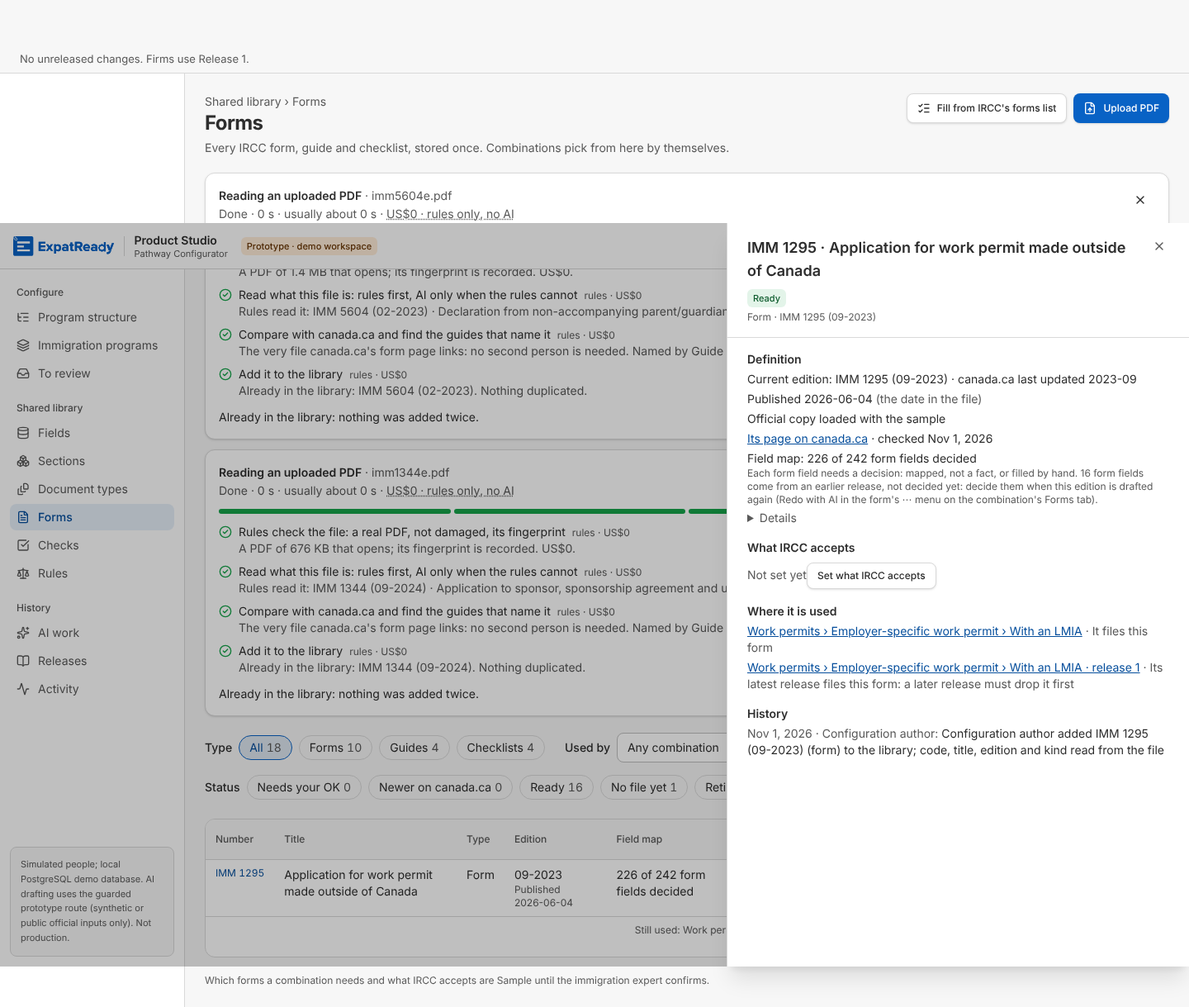
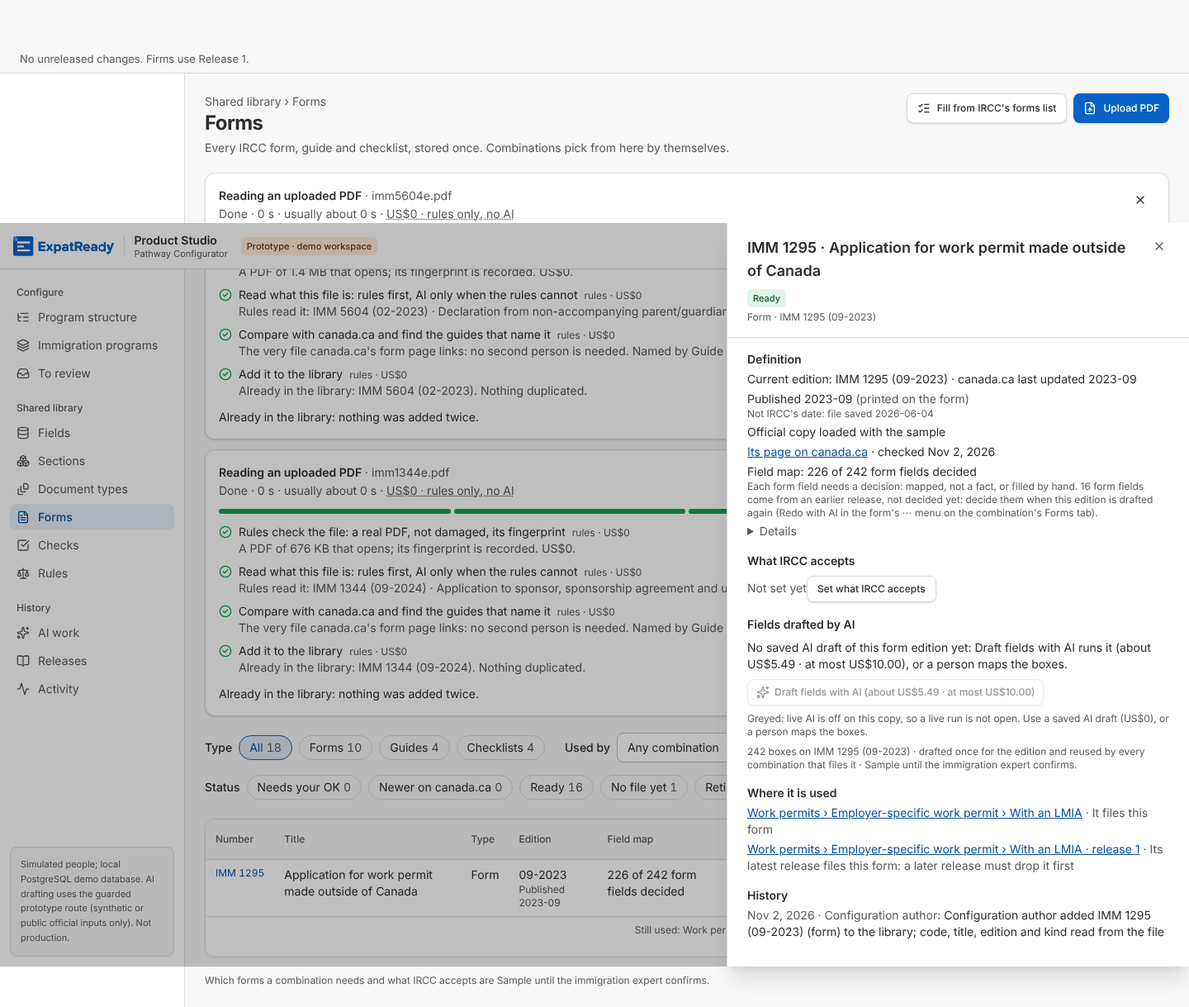
screens: C3.12 K3 (QA-148) — Published is IRCC's month (printed on the form, else canada.ca's Last updated), never the PDF file's own date; the file's date is kept apart as File saved
Pack C3.12 17/17 (was 16/17: AT-3). Reuses engine/library-index.ts fileMonth, the rule the library already uses for newer on canada.ca.

Claude-Session: https://claude.ai/code/session_01MXNda7yyFHSkoHSRv6cnhK

Changed region(s): [[0.625, 0.3741, 0.9688, 0.9352], [0.5, 0.8105, 0.5938, 0.904], [0.4375, 0.8105, 0.4688, 0.904]]

diff --git a/ai-workers/problem-1-pathway-setup-and-form-filling/prototype/studio/tests/check_forms_c312_field_map.ts b/ai-workers/problem-1-pathway-setup-and-form-filling/prototype/studio/tests/check_forms_c312_field_map.ts
@@ -3,15 +3,17 @@
 // checklist "No field map", a form with no usable edition "No edition yet". The pure rule (contracts/form-library.ts
 // fieldMapState) with a pass and a fail per rule, then the API on the sample against the database's own rows. US$0 (one
 // saved AI answer replayed, no model call).
-// C3.12 published date (FormEdition.published, migration 20261101150000): each edition shows the date its own file says it
-// was published (not the printed edition), a file with no date says so, an older edition keeps its own date, and editions
-// made before the column are read once and kept. A pass and a fail per rule, against the database's own column.
+// C3.12 dates. K3 (QA-148, AGENTS rule 4): "Published" is IRCC's month for the edition, printed on the form, else its
+// canada.ca page's Last updated (engine/library-index.ts fileMonth), never the PDF's own date. The file's own date
+// (FormEdition.published, migration 20261101150000, #313) is kept and shown apart as "File saved": a file with no date
+// says so, an older edition keeps its own, and editions made before the column are read once and kept. A pass and a fail
+// per rule, against the database's own column.
 //   zsh studio/tools/isolated.sh forms_c312 4450 start && tsx studio/tests/check_forms_c312_field_map.ts 4450 xr_studio_forms_c312
 import { execFileSync, execSync } from "node:child_process";
 import { mkdirSync, readFileSync, rmSync } from "node:fs";
 import { join } from "node:path";
 import { fieldMapState } from "../contracts/form-library.ts";
-import { publishedOf } from "../engine/published-date.ts";
+import { ircPublished, publishedOf } from "../engine/published-date.ts";
 
 const PORT = Number(process.argv[2] ?? 4450), DB = process.argv[3] ?? "xr_studio_forms_c312";
 let pass = 0, fail = 0;
@@ -61,6 +63,10 @@ type Row = { code: string; type: string; edition: string | null; field_map: Fm }
   ok("C3.12 break M2 fail: a file that could not be read ('?') says 'unreadable'", publishedOf("?").published_state === "unreadable");
   ok("C3.12 published rule pass: a PDF that names no date ('') says 'none'", publishedOf("").published_state === "none");
   ok("C3.12 break m1 fail: impossible or far dates are never shown (2023-02-30, 0000-00-00, 2099-12-31)", ["2023-02-30", "0000-00-00", "2099-12-31", "9999-13-99"].every((v) => publishedOf(v).published === null));
+  ok("C3.12 K3 rule pass: the month printed on the form is IRCC's published month", JSON.stringify(ircPublished({ editionLabel: "IMM 5476 (11-2025)", canadaUpdated: "2025-11" })) === JSON.stringify({ published: "2025-11", published_from: "printed", published_state: "date" }));
+  ok("C3.12 K3 rule pass: with no month printed in the label, canada.ca's Last updated month is used and named as such", JSON.stringify(ircPublished({ editionLabel: "IMM 5802", canadaUpdated: "2024-03" })) === JSON.stringify({ published: "2024-03", published_from: "canada_page", published_state: "date" }));
+  ok("C3.12 K3 rule fail: a page edited later never makes an old file read as new (printed 05-2021 wins over a 2025-09 page)", ircPublished({ editionLabel: "IMM 5475 (05-2021)", canadaUpdated: "2025-09" }).published === "2021-05");
+  ok("C3.12 K3 rule fail: with neither, nothing is guessed (none)", JSON.stringify(ircPublished({ editionLabel: "Guide 5256 (read 2026-11-02)", canadaUpdated: null })) === JSON.stringify({ published: null, published_from: null, published_state: "none" }));
 
   // ── the API on the sample (US$0)
   await call("POST", "/demo/reset", { confirm: "RESET" });
@@ -112,48 +118,55 @@ type Row = { code: string; type: string; edition: string | null; field_map: Fm }
     }
   }
 
-  // ── C3.12 published date: the date the file says it was published (FormEdition.published), US$0 (rules, no AI)
-  type Pub = Row & { published: string | null; published_state: string; older_editions: { label: string; published: string | null; published_state: string }[] };
+  // ── C3.12 the file's own date (FormEdition.published, #313), now shown apart as "File saved" (K3, QA-148), US$0
+  type Pub = Row & { published: string | null; published_from: string | null; published_state: string; file_date: string | null; file_date_state: string; older_editions: { label: string; published: string | null; published_from: string | null; file_date: string | null; file_date_state: string }[] };
   const pubRows = async () => (await call("GET", "/library/forms/list")).body.rows as Pub[];
   let pr = await pubRows();
   const r1295 = pr.find((r) => r.code === "IMM 1295")!, r5707 = pr.find((r) => r.code === "IMM 5707")!;
-  ok("C3.12 published pass: a sample form shows the date its file gives (IMM 1295: 2026-06-04), the same as the column", r1295.published === "2026-06-04" && sql("select published from form_edition where edition_label = 'IMM 1295 (09-2023)'") === "2026-06-04", r1295.published);
-  ok("C3.12 published fail: the published date is not the printed edition (IMM 5707 is edition 01-2023, published 2025-04-11)", r5707.edition === "IMM 5707 (01-2023)" && r5707.published === "2025-04-11", [r5707.edition, r5707.published]);
-  ok("C3.12 published pass: every form edition made before the column was read once and kept (no row left unread)", sql("select count(*) from form_edition where published is null and channel = 'PDF'") === "0");
-  ok("C3.12 published fail: a guide with no date in its page is kept as read with no date (''), shown as none", sql("select count(*) from form_edition e join gov_form_def d on d.id = e.gov_form_def_id where d.form_kind = 'guide' and e.published = ''") !== "0" && pr.filter((r) => r.type === "guide").every((r) => r.published === null));
+  // K3 (QA-148; pack C3.12 AT-3; AGENTS rule 4): "Published" is IRCC's month, printed on the form, else canada.ca's page.
+  ok("C3.12 K3 pass: Published is the month printed on the form (IMM 1295 (09-2023): 2023-09, printed), never its file's date", r1295.published === "2023-09" && r1295.published_from === "printed" && r1295.file_date === "2026-06-04", [r1295.published, r1295.published_from, r1295.file_date]);
+  ok("C3.12 K3 fail: a file saved long after its edition (IMM 5707: 2025-04-11) never reads as published then", r5707.published === "2023-01" && r5707.published !== r5707.file_date?.slice(0, 7), [r5707.published, r5707.file_date]);
+  const chk = pr.find((r) => r.code === "IMM 5488")!;
+  ok("C3.12 K3 pass: a checklist whose canada.ca copy has no Last updated still shows its printed edition month (IMM 5488: 2024-10)", chk.published === "2024-10" && chk.published_from === "printed", [chk.published, chk.published_from]);
+  ok("C3.12 K3 pass: every dated form and checklist row has an IRCC month; no guide claims one", pr.filter((r) => r.type !== "guide" && r.edition).every((r) => /^\d{4}-\d{2}$/.test(r.published ?? "")) && pr.filter((r) => r.type === "guide").every((r) => r.published === null), pr.filter((r) => r.type !== "guide" && r.edition && !r.published).map((r) => r.code));
+  ok("C3.12 file date pass: a sample form keeps the date its file gives (IMM 1295: 2026-06-04), the same as the column", r1295.file_date === "2026-06-04" && sql("select published from form_edition where edition_label = 'IMM 1295 (09-2023)'") === "2026-06-04", r1295.file_date);
+  ok("C3.12 file date fail: the file's date is not the printed edition (IMM 5707 is edition 01-2023, file saved 2025-04-11)", r5707.edition === "IMM 5707 (01-2023)" && r5707.file_date === "2025-04-11", [r5707.edition, r5707.file_date]);
+  ok("C3.12 file date pass: every form edition made before the column was read once and kept (no row left unread)", sql("select count(*) from form_edition where published is null and channel = 'PDF'") === "0");
+  ok("C3.12 file date fail: a guide with no date in its page is kept as read with no date (''), shown as none", sql("select count(*) from form_edition e join gov_form_def d on d.id = e.gov_form_def_id where d.form_kind = 'guide' and e.published = ''") !== "0" && pr.filter((r) => r.type === "guide").every((r) => r.file_date === null && r.published === null));
   // An uploaded PDF (door 2, the intake): its date is set when it is added, from the reader that already read its identity.
   const IRCC = join(import.meta.dirname, "..", "..", "..", "official-sources", "ircc");
   const fd = new FormData(); fd.append("files", new Blob([new Uint8Array(readFileSync(join(IRCC, "forms", "imm5604e.pdf")))], { type: "application/pdf" }), "imm5604e.pdf");
   const up = await (await fetch(`http://localhost:${PORT}/api/intake`, { method: "POST", headers: { "x-actor": "user-A" }, body: fd })).json() as { results?: { outcome: string; edition: string | null }[] };
   const added = up.results?.[0];
-  ok("C3.12 published pass: an uploaded PDF keeps the date its file gives the moment it is added (IMM 5604: 2023-02-27)", !!added?.edition && sql(`select published from form_edition where edition_label = '${added.edition}'`) === "2023-02-27", { added, col: added?.edition ? sql(`select coalesce(published, 'NULL') from form_edition where edition_label = '${added.edition}'`) : null });
+  ok("C3.12 file date pass: an uploaded PDF keeps the date its file gives the moment it is added (IMM 5604: 2023-02-27)", !!added?.edition && sql(`select published from form_edition where edition_label = '${added.edition}'`) === "2023-02-27", { added, col: added?.edition ? sql(`select coalesce(published, 'NULL') from form_edition where edition_label = '${added.edition}'`) : null });
   pr = await pubRows();
-  ok("C3.12 published pass: the Forms list shows the uploaded form's date", pr.find((r) => r.code === "IMM 5604")?.published === "2023-02-27", pr.find((r) => r.code === "IMM 5604"));
+  ok("C3.12 file date pass: the Forms list shows the uploaded form's date", pr.find((r) => r.code === "IMM 5604")?.file_date === "2023-02-27", pr.find((r) => r.code === "IMM 5604"));
   // A file that names no date: kept as '' (read), shown as none, and not read again on the next list.
   sql("update form_edition set published = '' where edition_label = 'IMM 5409 (01-2023)'");
   pr = await pubRows();
-  ok("C3.12 published pass: a file that names no date is shown as none (the page says 'Date not in the file')", pr.find((r) => r.code === "IMM 5409")?.published === null, pr.find((r) => r.code === "IMM 5409")?.published);
-  ok("C3.12 published fail: a file read once with no date is not read again on every list (stays '')", sql("select published from form_edition where edition_label = 'IMM 5409 (01-2023)'") === "");
+  ok("C3.12 file date pass: a file that names no date is shown as none (the page says 'Date not in the file')", pr.find((r) => r.code === "IMM 5409")?.file_date === null, pr.find((r) => r.code === "IMM 5409")?.file_date);
+  ok("C3.12 file date fail: a file read once with no date is not read again on every list (stays '')", sql("select published from form_edition where edition_label = 'IMM 5409 (01-2023)'") === "");
   sql("update form_edition set published = 'not a date' where edition_label = 'IMM 5475 (05-2021)'");
-  ok("C3.12 published fail: anything but a YYYY-MM-DD date is never shown as a date", (await pubRows()).find((r) => r.code === "IMM 5475")?.published === null);
+  ok("C3.12 file date fail: anything but a YYYY-MM-DD date is never shown as a date", (await pubRows()).find((r) => r.code === "IMM 5475")?.file_date === null);
   sql("update form_edition set published = '9999-13-99' where edition_label = 'IMM 5475 (05-2021)'");
-  ok("C3.12 break m1 fail: an impossible date (9999-13-99) from a file's clock is never shown as a date", (await pubRows()).find((r) => r.code === "IMM 5475")?.published === null);
+  ok("C3.12 break m1 fail: an impossible date (9999-13-99) from a file's clock is never shown as a date", (await pubRows()).find((r) => r.code === "IMM 5475")?.file_date === null);
   sql("update form_edition set published = '?' where edition_label = 'IMM 5475 (05-2021)'");
   const unreadable = (await pubRows()).find((r) => r.code === "IMM 5475")!;
-  ok("C3.12 break M2 fail: a file that could not be read says so ('unreadable'), never 'no date in the file'", unreadable.published === null && unreadable.published_state === "unreadable" && sql("select published from form_edition where edition_label = 'IMM 5475 (05-2021)'") === "?", unreadable.published_state);
-  ok("C3.12 break M2 pass: a file with no date says 'none', one with a date 'date'", pr.find((r) => r.code === "IMM 5409")?.published_state === "none" && pr.find((r) => r.code === "IMM 1295")?.published_state === "date");
+  ok("C3.12 break M2 fail: a file that could not be read says so ('unreadable'), never 'no date in the file'", unreadable.file_date === null && unreadable.file_date_state === "unreadable" && sql("select published from form_edition where edition_label = 'IMM 5475 (05-2021)'") === "?", unreadable.file_date_state);
+  ok("C3.12 break M2 pass: a file with no date says 'none', one with a date 'date'", pr.find((r) => r.code === "IMM 5409")?.file_date_state === "none" && pr.find((r) => r.code === "IMM 1295")?.file_date_state === "date");
   // An older edition keeps its own date (test input: IMM 5257's committed previous edition joins as an earlier edition,
   // unread, the way rows made before the column are).
   const ws = sql("select workspace_id from form_edition where edition_label = 'IMM 5257 (09-2023)'"), def = sql("select gov_form_def_id from form_edition where edition_label = 'IMM 5257 (09-2023)'");
[1 lines of base64/hex data omitted]
   pr = await pubRows();
   const v = pr.find((r) => r.code === "IMM 5257")!, older = v.older_editions.find((e) => e.label === "IMM 5257 (06-2018)");
-  ok("C3.12 published pass: an older edition shows its own file's date (IMM 5257 (06-2018): 2019-04-18), read once and kept", older?.published === "2019-04-18" && sql("select published from form_edition where edition_label = 'IMM 5257 (06-2018)'") === "2019-04-18", v.older_editions);
-  ok("C3.12 published fail: the current edition keeps its own date, not the older one's", v.edition === "IMM 5257 (09-2023)" && v.published === "2026-06-04", [v.edition, v.published]);
+  ok("C3.12 file date pass: an older edition shows its own file's date (IMM 5257 (06-2018): 2019-04-18), read once and kept", older?.file_date === "2019-04-18" && sql("select published from form_edition where edition_label = 'IMM 5257 (06-2018)'") === "2019-04-18", v.older_editions);
+  ok("C3.12 K3 pass: an older edition shows its own printed month as published (IMM 5257 (06-2018): 2018-06), not its file's date", older?.published === "2018-06" && older?.published_from === "printed", older);
+  ok("C3.12 file date fail: the current edition keeps its own date, not the older one's", v.edition === "IMM 5257 (09-2023)" && v.file_date === "2026-06-04", [v.edition, v.file_date]);
   // A file not on disk is left unread (null), never marked as having no date.
   sql(`insert into form_edition (id, workspace_id, gov_form_def_id, edition_label, stored_path) values (gen_random_uuid(), '${ws}', '${def}', 'IMM 5257 (01-2017)', 'var/nowhere/missing.pdf')`);
   await pubRows();
-  ok("C3.12 published fail: a file missing from disk stays unread (null, tried again later), never '' (no date)", sql("select coalesce(published, 'NULL') from form_edition where edition_label = 'IMM 5257 (01-2017)'") === "NULL");
+  ok("C3.12 file date fail: a file missing from disk stays unread (null, tried again later), never '' (no date)", sql("select coalesce(published, 'NULL') from form_edition where edition_label = 'IMM 5257 (01-2017)'") === "NULL");
   // Break M1: a stored file that never answers (a pipe) is not read at all, the list answers at once, and the other
   // unread files are still read (test input: a FIFO under this copy's own var folder, and an unread edition beside it).
   const fifoDir = join(import.meta.dirname, "..", "var", "c312-fifo"); rmSync(fifoDir, { recursive: true, force: true }); mkdirSync(fifoDir, { recursive: true });

diff --git a/ai-workers/problem-1-pathway-setup-and-form-filling/prototype/studio/web/src/pages/library-forms.tsx b/ai-workers/problem-1-pathway-setup-and-form-filling/prototype/studio/web/src/pages/library-forms.tsx
@@ -22,13 +22,13 @@ import { ACTION_LABEL, RETURNED_LABEL, SAY, TIP, WAITING_LABEL, WHY } from "../.
 import { Skeleton } from "@/components/ui/skeleton";
 import type { FieldMapState } from "../../../contracts/form-library";
 
-type Row = { code: string; title: string; type: "form" | "guide" | "checklist"; edition: string | null; /** C3.12: the date the file says it was published (not the printed edition); null when it names none. */ published?: string | null; published_state?: PublishedState; canada_updated: string | null; accepts: string | null; accepts_basis: string | null; accepts_quote: string | null; accepts_waiting: boolean;
+type Row = { code: string; title: string; type: "form" | "guide" | "checklist"; edition: string | null; /** C3.12 (K3, QA-148): IRCC's month for the edition, printed on it, else its canada.ca page; never the file's date. */ published?: string | null; published_from?: "printed" | "canada_page" | null; published_state?: "date" | "none"; /** The PDF's own date (#313), shown apart as "File saved". */ file_date?: string | null; file_date_state?: FileDateState; canada_updated: string | null; accepts: string | null; accepts_basis: string | null; accepts_quote: string | null; accepts_waiting: boolean;
   /** C3.12: the field map of its current edition (contracts/form-library.ts fieldMapState). */
   field_map: FieldMapState;
   /** P-143 (C-3): one record per IRCC account (ANY: every account), each with its basis and IRCC's line. */
   accepts_accounts?: { account: string; account_words: string; channels: string[]; words: string; basis: string; quote: string | null; source_url: string | null }[];
   origin: string | null; downloaded_from: string | null; checked_at: string | null; form_page_url: string | null; fingerprint: string | null; attachment_id: string | null;
-  used_by: { id: string; label: string; picked_by_ai: boolean; as_source?: boolean }[]; status: "ready" | "needs_ok" | "newer_file" | "no_file" | "retired"; listed_by_ircc?: boolean; newer_on_index?: boolean; lifecycle_waiting: "DELETE" | "RETIRE" | "RESTORE" | null; lifecycle_approved?: boolean; lifecycle_returned?: boolean; older_editions: { label: string; published?: string | null; published_state?: PublishedState; kept_by: string }[]; action: { kind: "DELETE" | "RETIRE" | "RESTORE" | "WITHDRAW"; why: string | null; change_id: string | null } };
+  used_by: { id: string; label: string; picked_by_ai: boolean; as_source?: boolean }[]; status: "ready" | "needs_ok" | "newer_file" | "no_file" | "retired"; listed_by_ircc?: boolean; newer_on_index?: boolean; lifecycle_waiting: "DELETE" | "RETIRE" | "RESTORE" | null; lifecycle_approved?: boolean; lifecycle_returned?: boolean; older_editions: { label: string; published?: string | null; published_from?: "printed" | "canada_page" | null; published_state?: "date" | "none"; file_date?: string | null; file_date_state?: FileDateState; kept_by: string }[]; action: { kind: "DELETE" | "RETIRE" | "RESTORE" | "WITHDRAW"; why: string | null; change_id: string | null } };
 type List = { rows: Row[]; counts: Record<string, number>; combinations: { id: string; label: string }[]; sample_note: string; remembered_deletions?: { code: string; deleted_by: string; deleted_at: string }[] };
 export type Uses = { label: string; released: boolean; retired: boolean; uses: { kind: string; label: string; href: string | null; blocks: boolean; why: string }[]; can: { delete: string | null; retire: string | null; restore: string | null }; pending: { id: string; action: string; by: string | null } | null; history: { at: string; by: string | null; what: string }[] };
 
@@ -43,13 +43,17 @@ const BASIS: Record<string, { tag: string; tip: string }> = {
   FOUNDER_SAMPLE: { tag: "Founder P-171 · Sample", tip: "The founder's answer where IRCC's pages say nothing (P-171). No IRCC line to quote. Sample until the immigration expert confirms." },
 };
 /** A guide's date is canada.ca's own "Date modified" when the page prints one; otherwise when the studio read it. */
-/** C3.12: a form edition's published date in words: the date the file itself gives, never the printed edition. Break
- *  (456fb7d0) M2: a file not read yet, or one that could not be read, is said as such, never as "no date in the file". */
-type PublishedState = "date" | "none" | "unread" | "unreadable";
-const NO_DATE: Record<PublishedState, string> = { date: "", none: "Date not in the file", unread: "Date not read yet", unreadable: "Date could not be read from the file" };
-const publishedText = (d: string | null | undefined, s: PublishedState | undefined) => (d ? `Published ${d}` : NO_DATE[s ?? "none"] || NO_DATE.none);
-/** Review m1: the date itself never breaks at its hyphens ("2026-" / "06-04"); the words around it may wrap. */
-const PublishedLine = ({ d, s }: { d: string | null | undefined; s: PublishedState | undefined }) => (d ? <>Published <span className="whitespace-nowrap" data-published-date>{d}</span></> : <>{publishedText(d, s)}</>);
+/** C3.12 (K3, QA-148): "Published" is IRCC's month for the edition: printed on the form, else its canada.ca page's "Last
+ *  updated" (AGENTS rule 4), never the PDF file's own date; with neither, it says so and never guesses. */
+const NO_PUBLISHED = "No edition date printed on it or on canada.ca";
+const publishedText = (d: string | null | undefined) => (d ? `Published ${d}` : NO_PUBLISHED);
+const FROM: Record<"printed" | "canada_page", string> = { printed: "printed on the form", canada_page: "canada.ca page, Last updated" };
+/** Review m1: the date itself never breaks at its hyphens; the words around it may wrap. */
+const PublishedLine = ({ d }: { d: string | null | undefined }) => (d ? <>Published <span className="whitespace-nowrap" data-published-date>{d}</span></> : <>{publishedText(d)}</>);
+/** The PDF file's own date (#313; break 456fb7d0 M2: not read yet or unreadable is said as such, never as "no date"). */
+type FileDateState = "date" | "none" | "unread" | "unreadable";
+const FILE_NO_DATE: Record<FileDateState, string> = { date: "", none: "the file names no date", unread: "the file's date is not read yet", unreadable: "the file's date could not be read" };
+const fileDateText = (d: string | null | undefined, s: FileDateState | undefined) => (d ? `file saved ${d}` : FILE_NO_DATE[s ?? "none"] || FILE_NO_DATE.none);
 const editionText = (r: Row) => (r.type === "guide" ? (r.canada_updated ? `Updated on canada.ca ${r.canada_updated}` : r.checked_at ? `Read from canada.ca on ${new Date(r.checked_at).toISOString().slice(0, 10)}` : "Date not known") : r.edition ? r.edition.replace(`${r.code} `, "").replace(/[()]/g, "") : null);
 const ACCEPTS_TIP = "What IRCC accepts for this form, for each IRCC account or for every account: Online, PDF upload, Paper, or Not needed (the account asks it itself; said for one account only). Guides and checklists are not filed: AI reads them. AI reads it from IRCC's page, the sample loads it with IRCC's own line from the page, or a person sets it with a second person's OK; Sample until the immigration expert confirms. Online filling needs the browser extension (later wave).";
 const STATUS: Record<Row["status"], { word: string; tone: string; tip: string }> = {
@@ -158,9 +162,9 @@ export function FormsPage() {
                 <tr data-form={r.code} tabIndex={-1} className={`focus-visible:outline-2! focus-visible:outline-solid! focus-visible:-outline-offset-2! focus-visible:outline-ring! ${r.status === "retired" ? "text-text-muted" : ""}`}>
                   <td className="whitespace-nowrap text-xs tabular-nums"><button type="button" className="rounded text-text-link underline-offset-2 hover:underline outline-none focus-visible:ring-[3px] focus-visible:ring-ring/50" onClick={() => setOpen(r)}>{r.code}</button></td>
                   <td className="min-w-32 max-w-56 break-words xl:max-w-80"><span className="line-clamp-2" title={r.title}>{r.title}</span>
-                    <span className="mt-0.5 block text-xs text-text-muted xl:hidden">{TYPE_WORD[r.type]} · {editionText(r) ?? "no usable edition yet"}{r.type !== "guide" && r.edition ? <span data-published-short> · <PublishedLine d={r.published} s={r.published_state} /></span> : null}{r.type === "form" && r.edition ? <> · <Tip tip={r.field_map.tip}><span tabIndex={0} data-field-map-short={r.field_map.kind} className="rounded outline-none focus-visible:ring-[3px] focus-visible:ring-ring/50">Field map: {r.field_map.words}</span></Tip></> : null}</span></td>
+                    <span className="mt-0.5 block text-xs text-text-muted xl:hidden">{TYPE_WORD[r.type]} · {editionText(r) ?? "no usable edition yet"}{r.type !== "guide" && r.edition ? <span data-published-short> · <PublishedLine d={r.published} /></span> : null}{r.type === "form" && r.edition ? <> · <Tip tip={r.field_map.tip}><span tabIndex={0} data-field-map-short={r.field_map.kind} className="rounded outline-none focus-visible:ring-[3px] focus-visible:ring-ring/50">Field map: {r.field_map.words}</span></Tip></> : null}</span></td>
                   <td className="hidden xl:table-cell">{TYPE_WORD[r.type]}</td>
-                  <td className="hidden xl:table-cell">{editionText(r) ?? <span className="text-text-muted">no usable edition yet</span>}{r.type !== "guide" && r.edition ? <span data-published className="block text-xs text-text-muted"><PublishedLine d={r.published} s={r.published_state} /></span> : null}</td>
+                  <td className="hidden xl:table-cell">{editionText(r) ?? <span className="text-text-muted">no usable edition yet</span>}{r.type !== "guide" && r.edition ? <span data-published className="block text-xs text-text-muted"><PublishedLine d={r.published} /></span> : null}</td>
                   <td className="hidden xl:table-cell"><FieldMapCell fm={r.field_map} /></td>
                   <td className="max-w-36 xl:max-w-none"><AcceptsCell r={r} /></td>
                   <td className="max-w-48 xl:max-w-72">{r.used_by.length === 0 ? <span className="text-text-muted">Not used</span> : r.used_by.length === 1 ? <TrailText label={r.used_by[0].label} /> : <Tip tip={r.used_by.map((u) => u.label).join(", ")}>{/* DV-d1-1 (N8): a count a person trusts at a glance: a plain link-style button (opens where it is used), never a dotted line that reads as struck through */}<button type="button" data-used-by-count className="rounded text-text-link underline-offset-2 hover:underline outline-none focus-visible:ring-[3px] focus-visible:ring-ring/50" onClick={() => setOpen(r)}>{r.used_by.length} combinations</button></Tip>}</td>
@@ -357,11 +361,11 @@ function FormDrawer({ row, onClose, canAuthor }: { row: Row; onClose: () => void
     <Panel open onOpenChange={(o) => !o && onClose()} title={`${row.code} · ${row.title}`} description={`${TYPE_WORD[row.type]}${row.edition ? ` · ${row.edition}` : ""}`} badge={<Pill tone={STATUS[row.status].tone}>{STATUS[row.status].word}</Pill>}>
       <section className="space-y-1 text-sm" aria-labelledby="fd-def"><h3 id="fd-def" className="font-semibold">Definition</h3>
         <p>{row.type === "guide" ? editionText(row) : <>Current edition: {row.edition ?? "none usable yet"}{row.canada_updated ? ` · canada.ca last updated ${row.canada_updated}` : ""}</>}</p>
-        {row.type !== "guide" && row.edition ? <p data-published-panel>{row.published ? <>Published {row.published} <span className="text-text-muted">(the date in the file)</span></> : <span className="text-text-muted">{publishedText(null, row.published_state)}</span>}</p> : null}
+        {row.type !== "guide" && row.edition ? <p data-published-panel>{row.published ? <>Published {row.published} <span className="text-text-muted">({FROM[row.published_from ?? "printed"]})</span></> : <span className="text-text-muted">{publishedText(null)}</span>}<span className="block text-xs text-text-muted" data-file-date>Not IRCC's date: {fileDateText(row.file_date, row.file_date_state)}</span></p> : null}
         <p>{row.type === "guide" ? "Read from its canada.ca page" : row.origin ? ORIGIN[row.origin] ?? row.origin : "Where it came from is not recorded"}{row.downloaded_from && row.type !== "guide" ? <> · <a className="text-text-link underline" href={row.downloaded_from} target="_blank" rel="noreferrer">PDF link</a></> : null}</p>
         {row.form_page_url ? <p><a className="text-text-link underline" href={row.form_page_url} target="_blank" rel="noreferrer">{/\.pdf$/i.test(row.form_page_url) ? "Its file on IRCC's site (no form page)" : "Its page on canada.ca"}</a>{/\.pdf$/i.test(row.form_page_url) ? null : <> · checked {when(row.checked_at)}</>}</p> : <p className="text-text-muted">No canada.ca page recorded yet.</p>}
         {row.type === "form" ? <p data-field-map-panel={row.field_map.kind}>Field map: {row.field_map.words}<span className="block text-xs text-text-muted">{row.field_map.tip}</span></p> : null}
-        {row.older_editions.map((e) => <p key={e.label} className="text-text-muted" data-kept-by><span className="font-medium text-text">Earlier edition {e.label.replace(`${row.code} `, "")}</span> · <span data-published-older>{e.published ? `published ${e.published}` : publishedText(null, e.published_state).replace(/^D/, "d")}</span> · {e.kept_by}</p>)}
+        {row.older_editions.map((e) => <p key={e.label} className="text-text-muted" data-kept-by><span className="font-medium text-text">Earlier edition {e.label.replace(`${row.code} `, "")}</span> · <span data-published-older>{e.published ? `published ${e.published}` : publishedText(null).replace(/^N/, "n")}</span> · {e.kept_by}</p>)}
         <details><summary className="cursor-pointer text-text-muted">Details</summary><p className="mono break-all text-xs">File fingerprint (SHA-256): {row.fingerprint ?? "none"}</p></details>
       </section>
       <section className="mt-4 space-y-2 text-sm" aria-labelledby="fd-acc"><h3 id="fd-acc" className="font-semibold">What IRCC accepts</h3>

diff --git a/ai-workers/problem-1-pathway-setup-and-form-filling/prototype/studio/api/src/form-library.ts b/ai-workers/problem-1-pathway-setup-and-form-filling/prototype/studio/api/src/form-library.ts
@@ -20,7 +20,8 @@ import { AcceptsBody, acceptsWords, AttachBody, fieldMapState, LibraryQuery, Lif
 import { CanadaError, canadaSource, type CanadaSource } from "./canada.ts";
 import { ACTORS, actorOf, Audit, ConfigRead, Db, need, readerOf, Workspace, type Actor } from "./core.ts";
 import { rowActionOf } from "./form-row-action.ts";
-import { fillPublished, publishedOf } from "./edition-published.ts";
+import { fillPublished } from "./edition-published.ts";
+import { fileDateOf, ircPublished } from "../../engine/published-date.ts";
 import { Finder } from "./finder.ts";
 import { Lifecycle } from "./lifecycle.ts";
 import { addFormLine } from "./form-lines.ts";
@@ -88,7 +89,7 @@ export class FormLibrary {
   async list(query: unknown, actorId?: string) {
     const q = parse(LibraryQuery, query);
     const workspaceId = await this.ws.id();
-    await fillPublished(this.db, workspaceId); // C3.12: editions not read yet, once (then kept); waits at most 3 s
+    await fillPublished(this.db, workspaceId); // C3.12: the file's own date ("File saved") for editions not read yet, once (then kept); waits at most 3 s
     const [forms, approved, held] = await Promise.all([
       this.db.govFormDef.findMany({ where: { workspaceId }, orderBy: { formKey: "asc" }, include: { editions: { include: { accepts: true } }, usedBy: { orderBy: { version: "desc" }, select: { combinationId: true, status: true, version: true, origin: true, combination: { select: { label: true } } } } } }),
       this.approvedShas(workspaceId),
@@ -129,13 +130,13 @@ export class FormLibrary {
       const month = current ? fileMonth(current) : null;
       const indexNewer = !!current && newerOnIndex(f.indexDateModified, month, current.indexDateSeenCurrent);
       const status = f.retiredAt ? "retired" : needsOk ? "needs_ok" : current?.newerFileSha256 || indexNewer ? "newer_file" : current ? "ready" : "no_file";
-      return { code: f.formKey, title: f.displayName, type: TYPE_OF(f.formKind, f.displayName), edition: current?.editionLabel ?? null, ...(current ? publishedOf(current.published) : { published: null, published_state: "unread" as const }), canada_updated: current?.canadaUpdated ?? null,
+      return { code: f.formKey, title: f.displayName, type: TYPE_OF(f.formKind, f.displayName), edition: current?.editionLabel ?? null, ...(current ? { ...ircPublished(current), ...fileDateOf(current.published) } : { published: null, published_from: null, published_state: "none" as const, file_date: null, file_date_state: "unread" as const }), canada_updated: current?.canadaUpdated ?? null,
         // P-143 (C-3): one record per IRCC account (ANY first); the column says them in words, one line per account.
         ...acceptsRow(current?.accepts ?? [], TYPE_OF(f.formKind, f.displayName) === "form"), accepts_waiting: waitingAccepts.has(f.formKey),
         field_map: fieldMapState(TYPE_OF(f.formKind, f.displayName), !!current, current ? effective(mapsOf.get(current.id) ?? [], (m) => m.dataPath, "draft") : [], current ? proposedOf.get(current.editionLabel) ?? 0 : 0),
         origin: current?.origin ?? (current?.officialFile ? "SAMPLE" : current ? "UPLOADED" : null), downloaded_from: current && approved.downloaded.has(current.sha256!) ? current.sourceUrl : null, checked_at: current?.checkedAt ?? null,
         form_page_url: f.formPageUrl ?? current?.formPageUrl ?? null, fingerprint: current?.sha256 ?? null, attachment_id: current ? atts.find((a) => a.sha256 === current.sha256 && a.kind === "Form")?.id ?? null : null,
-        used_by: using, status, listed_by_ircc: !!f.listedOnIndexAt, newer_on_index: indexNewer && !current?.newerFileSha256, plain: !f.retiredAt && !f.editions.length && !lineCodes.has(f.formKey) && !releasedCodes.has(f.formKey) && !held.some((h) => h.code === f.formKey) && !pendingChange, lifecycle_waiting: lifecycle, lifecycle_approved: pendingChange?.status === "APPROVED", lifecycle_returned: pendingChange?.status === "RETURNED", older_editions: editions.filter((e) => e.id !== current?.id).sort((a, b) => compareEditions(b, a)).map((e) => ({ label: e.editionLabel, ...publishedOf(e.published) })), retired: !!f.retiredAt, pending: pendingChange ?? null };
+        used_by: using, status, listed_by_ircc: !!f.listedOnIndexAt, newer_on_index: indexNewer && !current?.newerFileSha256, plain: !f.retiredAt && !f.editions.length && !lineCodes.has(f.formKey) && !releasedCodes.has(f.formKey) && !held.some((h) => h.code === f.formKey) && !pendingChange, lifecycle_waiting: lifecycle, lifecycle_approved: pendingChange?.status === "APPROVED", lifecycle_returned: pendingChange?.status === "RETURNED", older_editions: editions.filter((e) => e.id !== current?.id).sort((a, b) => compareEditions(b, a)).map((e) => ({ label: e.editionLabel, ...ircPublished(e), ...fileDateOf(e.published) })), retired: !!f.retiredAt, pending: pendingChange ?? null };
     });
     // P-116 amended (28 Oct): one written action per row, decided by the one guard (formUses); greyed with its reason.
     // An earlier edition says what keeps it ("Kept by Release 2 of Visitor visa and 3 open cases"; P-51, never deleted).

diff --git a/ai-workers/problem-1-pathway-setup-and-form-filling/prototype/studio/engine/published-date.ts b/ai-workers/problem-1-pathway-setup-and-form-filling/prototype/studio/engine/published-date.ts
@@ -1,5 +1,10 @@
-// C3.12 (forms lane): what the Forms list says for a form edition's published date (FormEdition.published), pure rules.
-// Stored: null = not read yet; "" = the PDF names no date; "?" = the file could not be read; else the date read.
+// C3.12 (K3, QA-148): what the Forms list says for a form edition's dates, pure rules.
+// "Published" is IRCC's own date for the edition (AGENTS rule 4: an immigration value from an official source): the month
+// printed on the form ("IMM 1295 (09-2023)"), else the "Last updated" month of its canada.ca page, by the one rule the
+// library already uses for "newer on canada.ca" (engine/library-index.ts fileMonth). It is never the PDF file's own date.
+// The file's own date (FormEdition.published: the PDF's ModDate, else CreationDate; #313) is kept and shown apart as
+// "File saved": null = not read yet; "" = the PDF names no date; "?" = the file could not be read; else the date read.
+import { fileMonth } from "./library-index.ts";
 
 /** Break m1: a real calendar date, from 1990 to next year (a file's clock can say anything). */
 export function realDate(v: string | null | undefined): string | null {
@@ -15,4 +20,18 @@ export type PublishedState = "date" | "none" | "unread" | "unreadable";
 export function publishedOf(v: string | null | undefined): { published: string | null; published_state: PublishedState } {
   const d = realDate(v);
   return { published: d, published_state: d ? "date" : v === null || v === undefined ? "unread" : v === "?" ? "unreadable" : "none" };
+}
+
+/** K3 (QA-148): IRCC's published month for an edition and where it was read: printed on the form, else canada.ca's page. */
+export type PublishedFrom = "printed" | "canada_page";
+export function ircPublished(e: { canadaUpdated?: string | null; editionLabel: string }): { published: string | null; published_from: PublishedFrom | null; published_state: "date" | "none" } {
+  const month = fileMonth(e), lb = /\((\d{2})-(\d{4})\)\s*$/.exec(e.editionLabel);
+  const from: PublishedFrom | null = !month ? null : lb && `${lb[2]}-${lb[1]}` === month ? "printed" : "canada_page";
+  return { published: month, published_from: from, published_state: month ? "date" : "none" };
+}
+
+/** The file's own date (#313), kept apart from IRCC's: the same words as before, under its own names. */
+export function fileDateOf(v: string | null | undefined): { file_date: string | null; file_date_state: PublishedState } {
+  const p = publishedOf(v);
+  return { file_date: p.published, file_date_state: p.published_state };
 }
